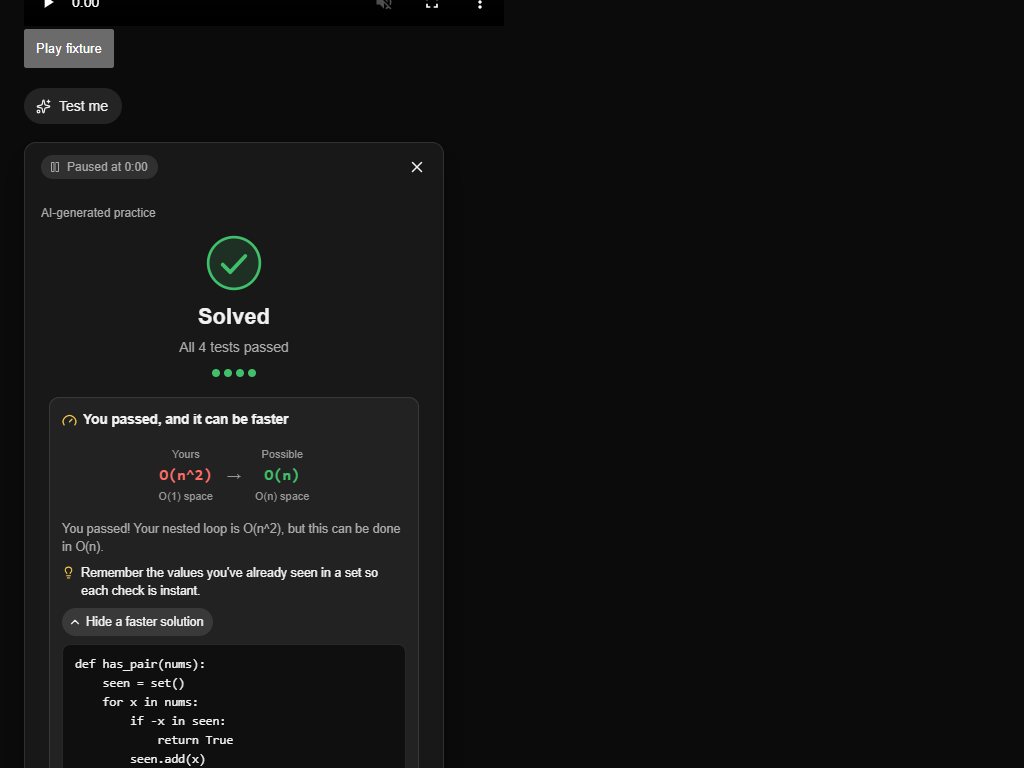
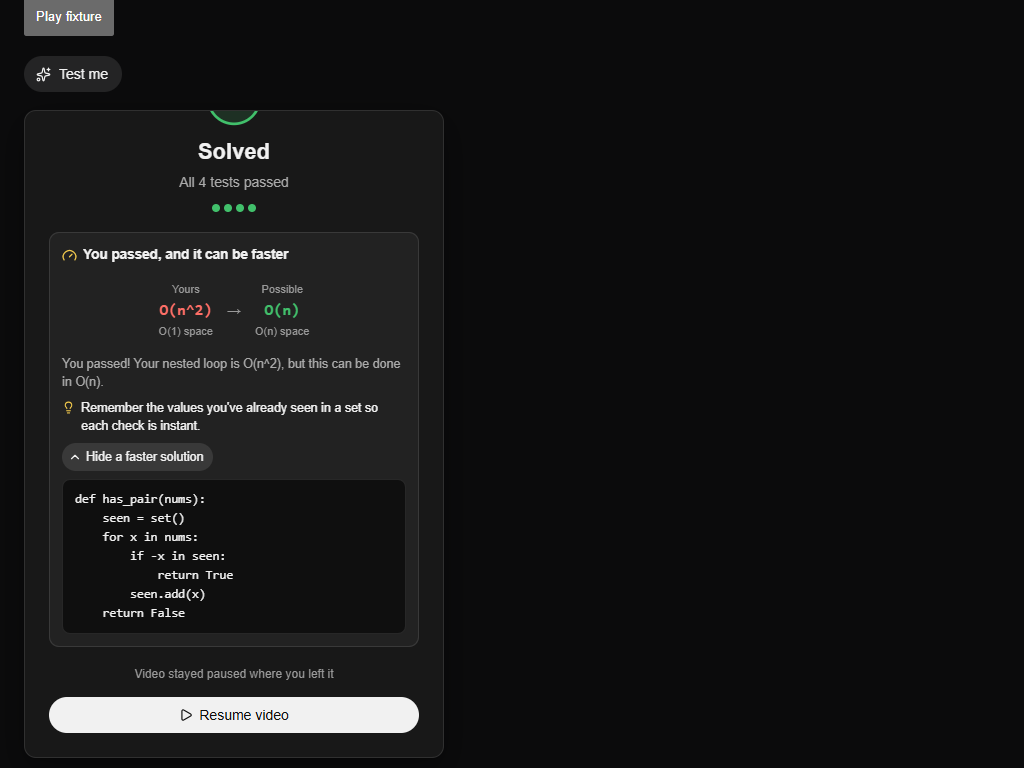
Show explicit resume controls for learner-paused solved attempts

diff --git a/extension/tests/e2e/test-me.spec.ts b/extension/tests/e2e/test-me.spec.ts
@@ -19,6 +19,8 @@ test.describe('opt-in Test me through the built worker', () => {
       await expect.poll(() => app.analyses.length).toBe(1);
       expect(app.analyses[0]).toEqual({ exerciseId: generated.exercise.id, revision: generated.setId, code: correctCode });
       await expect(page.getByText('Checking how efficient your solution is…')).toBeVisible();
+      await expect(page.locator('.bp-countdown')).toHaveCount(0);
+      await expect(page.getByText('Video stayed paused where you left it', { exact: true })).toBeVisible();
       await app.release();
       if (optimal) await expect(page.locator('.bp-efficiency.is-optimal')).toBeVisible();
       else {
@@ -31,10 +33,17 @@ test.describe('opt-in Test me through the built worker', () => {
       await expect(page.getByRole('heading', { name: 'Solved', exact: true })).toBeVisible();
       expect(await page.locator('video').evaluate(video => ({ paused: video.paused, time: video.currentTime })))
         .toEqual({ paused: true, time: pausedAt });
+      await expect(page.locator('.bp-countdown')).toHaveCount(0);
+      await expect(page.getByText(/Now see how the instructor does it/)).toHaveCount(0);
+      await expect(page.getByRole('button', { name: 'Resume now', exact: true })).toHaveCount(0);
+      const resume = page.getByRole('button', { name: 'Resume video', exact: true });
+      await expect(resume).toHaveClass(/bp-primary/);
+      await expect(page.getByRole('button', { name: 'Close practice', exact: true })).toBeVisible();
+      await resume.scrollIntoViewIfNeeded();
       await page.screenshot({ path: info.outputPath(`test-me-native-pause-${optimal ? 'efficient' : 'inefficient'}.png`), animations: 'disabled' });
-      await page.getByRole('button', { name: 'Close practice', exact: true }).click();
+      await resume.click();
       await expect(page.locator('.bp-panel')).toHaveCount(0);
-      expect(await page.locator('video').evaluate(video => video.paused)).toBe(true);
+      await expectPlaying(page);
     });
   }
 
@@ -65,6 +74,11 @@ test.describe('opt-in Test me through the built worker', () => {
     expect(await page.locator('video').evaluate(video => video.paused)).toBe(true);
     expect(app.generations).toHaveLength(2);
     expect(app.analyses[1]).toEqual(app.analyses[0]);
+    await expect(page.locator('.bp-countdown')).toHaveCount(0);
+    await expect(page.getByText(/Now see how the instructor does it/)).toHaveCount(0);
+    await expect(page.getByText('Video stayed paused where you left it', { exact: true })).toBeVisible();
+    await page.getByRole('button', { name: 'Resume video', exact: true }).click();
+    await expectPlaying(page);
   });
 
   test('unprepared video pauses, generates, grades with setId and resumes', async ({ app }, info) => {

diff --git a/extension/src/ui/PracticePanel.tsx b/extension/src/ui/PracticePanel.tsx
@@ -18,6 +18,7 @@ export type PracticePanelProps = {
   result: SubmissionResponse | null;
   error: { code: string; message: string; retryable: boolean } | null;
   canResume: boolean;
+  ownsPause: boolean;
   onRun(code: string): void;
   onSubmit(code: string): void;
   onSkip(): void;
@@ -109,7 +110,7 @@ function Panel(props: PracticePanelProps & { draftKey: string }) {
 
     {aiGenerated && <p className="bp-generated-label bp-generated-panel">AI-generated practice</p>}
 
-    {solved ? <Solved heading={heading} result={result} canResume={props.canResume} analysis={props.analysis ?? null}
+    {solved ? <Solved heading={heading} result={result} canResume={props.canResume} ownsPause={props.ownsPause} analysis={props.analysis ?? null}
       resumeAtS={props.breakpoint.pauseAtS} holdMs={props.holdMs ?? SOLVED_HOLD_MS} onResume={props.onResume} /> : <>
       <div className="bp-body">
         <div className="bp-intro bp-stagger">
@@ -229,8 +230,9 @@ function Results({ attempt, lastMode, result, error, coach }: {
   return <div className="bp-results" aria-live="polite" aria-atomic="true">{body}</div>;
 }
 
-function Solved({ heading, result, canResume, resumeAtS, holdMs, onResume, analysis }: {
+function Solved({ heading, result, canResume, ownsPause, resumeAtS, holdMs, onResume, analysis }: {
   heading: React.RefObject<HTMLHeadingElement | null>; result: SubmissionResponse | null; canResume: boolean;
+  ownsPause: boolean;
   resumeAtS: number; holdMs: number; onResume(): void; analysis: AnalysisState | null;
 }) {
   const rows = result?.results ?? [];
@@ -254,6 +256,9 @@ function Solved({ heading, result, canResume, resumeAtS, holdMs, onResume, analy
     {review && !review.optimal && <Efficiency review={review} />}
     {canResume ? <>
       <p className="bp-note">The browser didn’t resume playback.</p>
+      <button type="button" className="bp-button bp-primary bp-wide" onClick={onResume}><Play size={14} aria-hidden="true" />Resume video</button>
+    </> : !ownsPause ? <>
+      <p className="bp-note">Video stayed paused where you left it</p>
       <button type="button" className="bp-button bp-primary bp-wide" onClick={onResume}><Play size={14} aria-hidden="true" />Resume video</button>
     </> : counting && analysis?.status !== 'loading' ? <>
       <p className="bp-note">Now see how the instructor does it — back to {formatTimestamp(resumeAtS)}.</p>

diff --git a/extension/tests/e2e/preview.tsx b/extension/tests/e2e/preview.tsx
@@ -60,7 +60,7 @@ function Preview() {
     onOpen={() => setOpen(true)} />
     <div style={{ height: 12 }} />
     {open && <PracticePanel videoId={fixture.videoId} revision={new URLSearchParams(location.search).get('revision') ?? fixture.revision}
-      breakpoint={fixture.breakpoints[0]} attempt={attempt} result={result} error={error} canResume={canResume}
+      breakpoint={fixture.breakpoints[0]} attempt={attempt} result={result} error={error} canResume={canResume} ownsPause={true}
       onRun={code => grade('run', code)} onSubmit={code => grade('submit', code)}
       onSkip={close} onClose={close} onResume={close} />}
   </>;
@@ -99,7 +99,7 @@ function TestMePreview() {
     <TestMeControls />
     {stage === 'exercise' && <PracticePanel videoId={fixture.videoId} revision={generated.setId}
       breakpoint={{ id: 'generated', pauseAtS: 300, revealAtS: 302, exercise: generated.exercise }}
-      attempt={attempt} result={result} error={error} canResume={attempt === 'passed'}
+      attempt={attempt} result={result} error={error} canResume={attempt === 'passed'} ownsPause={true}
       onRun={() => grade('run')} onSubmit={() => grade('submit')}
       onSkip={close} onClose={close} onResume={close} />}
   </TestMeContext.Provider>;

diff --git a/extension/tests/e2e/README.md b/extension/tests/e2e/README.md
@@ -48,19 +48,25 @@ and checks that the default build hides Test me. T7 owns live provider validatio
 The already-paused cases start real media, pause it with the native media method,
 then open Test me and pass Submit. Both efficient and inefficient reviews must
 request analysis with the generated exercise id and setId, show the verdict, and
-keep the same paused frame beyond the solved hold. Closing the panel must also
-preserve that pause. A cache-reopen case returns the same generated exercise twice
-and requires a fresh review instead of the previous attempt's verdict.
+keep the same paused frame beyond the solved hold. They require no countdown or
+automatic-resume wording, the message "Video stayed paused where you left it",
+and a primary **Resume video** button alongside Close. Clicking Resume video must
+play the media. A cache-reopen case returns the same generated exercise twice
+and requires a fresh review instead of the previous attempt's verdict, then
+checks explicit resume too.
 
-Verified against `f6abdf1`: all six already-paused/cache-reopen cases pass at
-1440×900 and 1024×768. Native-pause efficient/inefficient screenshots are saved
-in `assets/ui-checks/hints-efficiency/{desktop,narrow}-test-me-native-pause-*.png`.
-These checks confirm review requests and playback ownership; they do not certify
-the solved screen's resume wording. The efficient native-pause screenshot still
-shows a countdown and **Resume now**, although no automatic resume is scheduled.
-The current callback closes that panel while preserving the learner's pause.
-The lead must agree a pause-ownership panel signal and explicit button behavior
-with the playback owner before that UI contract changes.
+The previous review-only checks passed against `f6abdf1` at 1440×900 and 1024×768.
+Following the lead's explicit-play decision (#6716127037), the UI now accepts
+required `ownsPause: boolean` separately from `canResume` (play rejection).
+Native-pause efficient/inefficient screenshots are refreshed in
+`assets/ui-checks/hints-efficiency/{desktop,narrow}-test-me-native-pause-*.png`.
+The six updated checks currently fail only at the final playing assertion against
+`f6347b4`: the callback closes the panel but leaves the media paused. All preceding
+review, wording, countdown and primary-button assertions pass. These screenshots
+show the new UI with the caller's prop still missing; they are not evidence of a
+completed playback integration. Abdullah2 must pass `active.ownsPause` and land
+the deliberate user-play callback before rerunning. Typecheck also requires the
+content-script caller and `tests/showcase/showcase.tsx` to supply `ownsPause`.
 
 ```powershell
 $env:WXT_TESTME_ENABLED = 'true'
